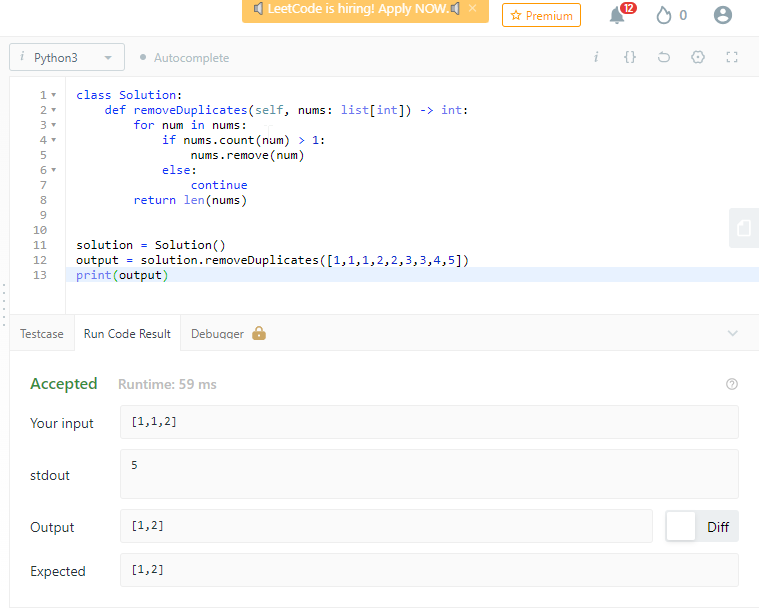
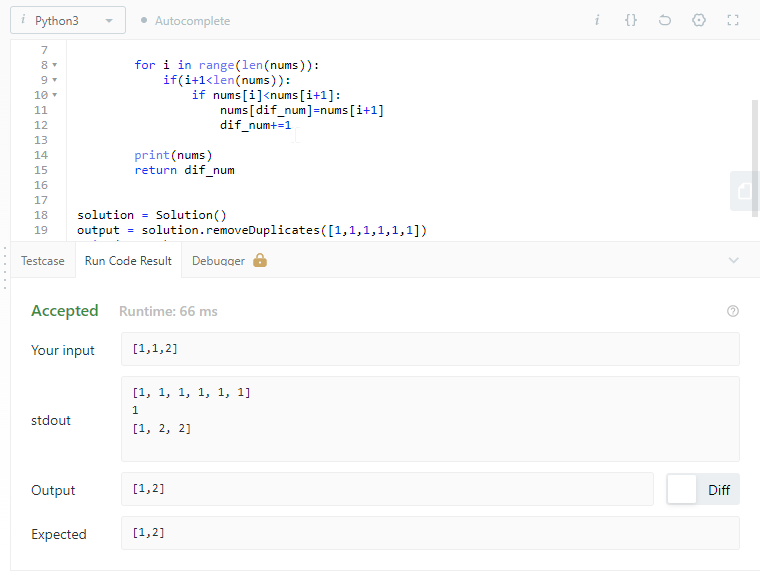
remove duplicate

diff --git a/Mark/Lists/Day-2/remove duplicate/remove-duplicate.py b/Mark/Lists/Day-2/remove duplicate/remove-duplicate.py
@@ -1,13 +1,20 @@
+
 class Solution:
     def removeDuplicates(self, nums: list[int]) -> int:
-        for num in nums:
-            if nums.count(num) > 1:
-                nums.remove(num)
-            else:
-                continue
-        return len(nums)
-        
+        dif_num=1
+        if nums==[]:
+            return 0
+
+        for i in range(len(nums)):
+            if(i+1<len(nums)):
+                if nums[i]<nums[i+1]:
+                    nums[dif_num]=nums[i+1]
+                    dif_num+=1
+            
+        print(nums)
+        return dif_num
+
 
 solution = Solution()
-output = solution.removeDuplicates([1,1,1,2,2,3,3,4,5])
+output = solution.removeDuplicates([1,1,1,1,1,1])
 print(output)
